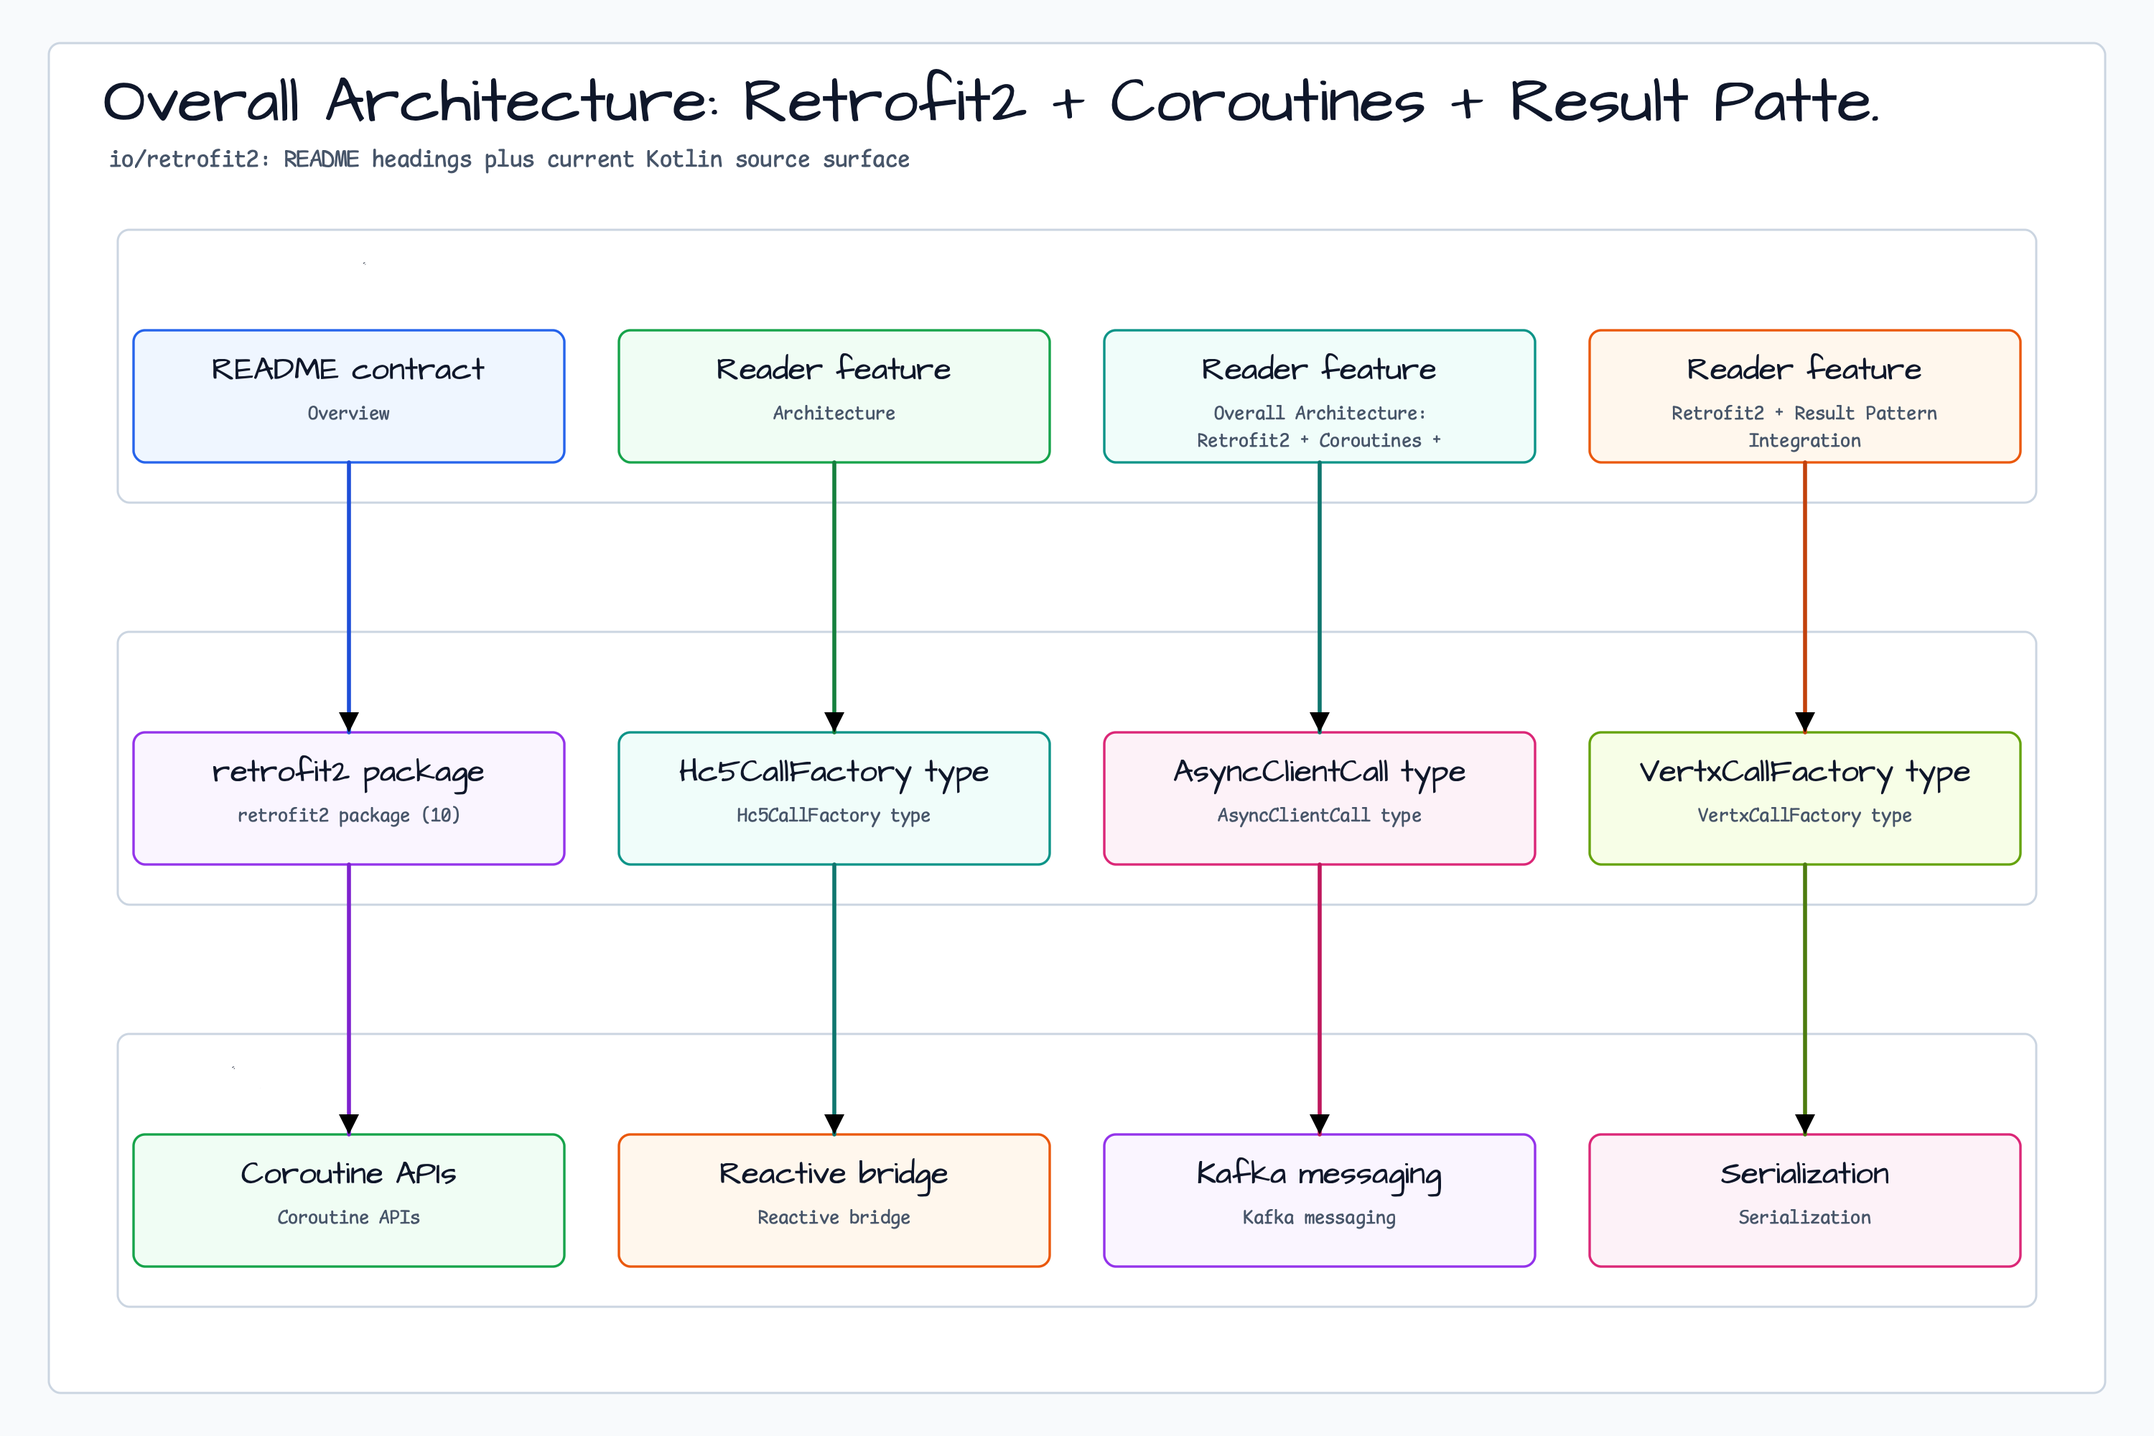
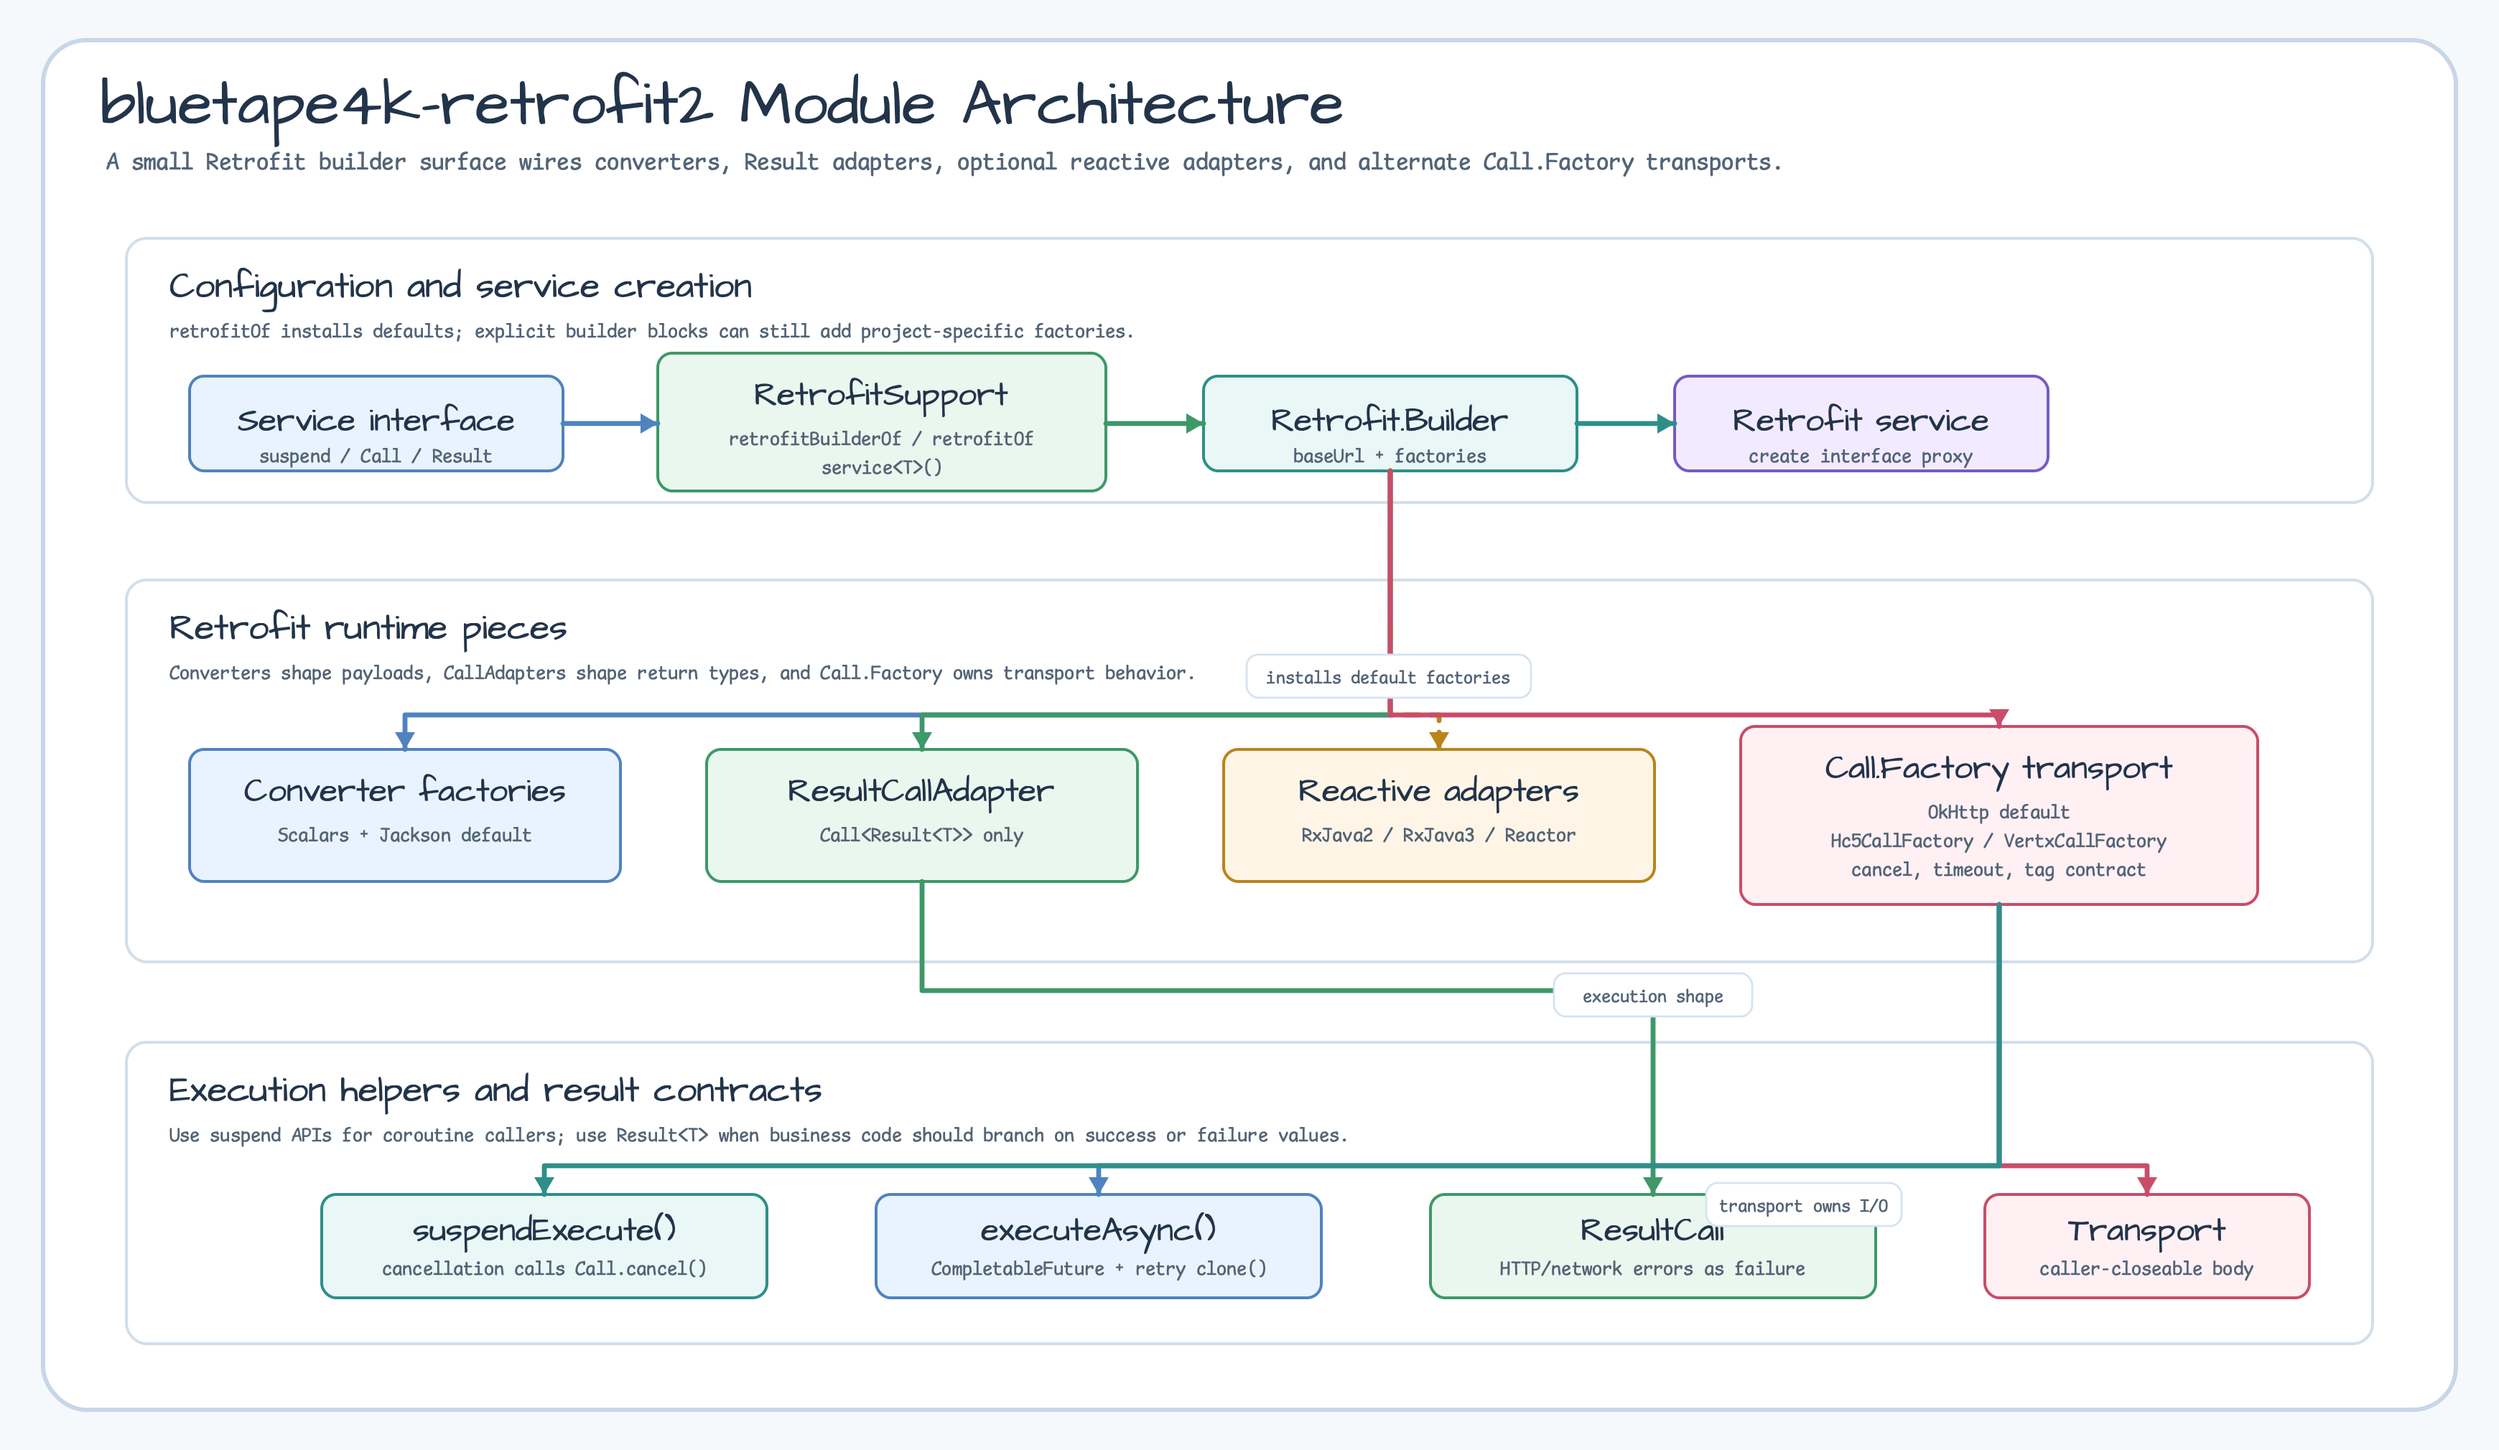
docs: redraw retrofit2 diagrams from source
The retrofit2 README diagrams should explain the actual builder defaults, Result adapter boundary, coroutine execution helpers, and alternate Call.Factory transports instead of generic README-feature placeholders.

Constraint: Current source wires ResultCallAdapterFactory by default, conditionally adds reactive adapters, maps Call<Result<T>> through ResultCall, and propagates cancellation through HC5, Vert.x, and coroutine helper paths.

Rejected: Keeping the previous generated diagrams | They contained placeholder README contract/Reader feature cards, truncated titles, small stroke-width markers, and unrelated module concepts.

Confidence: high

Scope-risk: narrow

Directive: Keep retrofit2 diagrams tied to RetrofitSupport.kt, ResultCall*.kt, and transport CallFactory contracts; reduce crossings by moving cards before changing source-backed relationships.

Tested: CairoSVG rendered io-retrofit2 diagram 01-02 and sequence 01; visually inspected all three PNGs for text fit, line overlap, arrow readability, and margins; SVG XML, forbidden wording, markerUnits, alt opacity, and README image links passed; git diff --check passed.

Not-tested: Gradle build not run because this is README/image-only documentation work.

diff --git a/io/retrofit2/README.md b/io/retrofit2/README.md
@@ -11,17 +11,17 @@ Beyond the default OkHttp transport, it supports multiple HTTP backends includin
 
 ## Architecture
 
-### Overall Architecture: Retrofit2 + Coroutines + Result Pattern
+### Retrofit2 Module Architecture
 
-![Overall Architecture: Retrofit2 + Coroutines + Result Patte. diagram](../../docs/images/readme-diagrams/io-retrofit2-diagram-01.png)
+![Retrofit2 Module Architecture diagram](../../docs/images/readme-diagrams/io-retrofit2-diagram-01.png)
 
 ### Retrofit2 + Result Pattern Integration
 
 ![Retrofit2 + Result Pattern Integration diagram](../../docs/images/readme-diagrams/io-retrofit2-diagram-02.png)
 
-### Suspend Function HTTP Request Flow (Result Pattern)
+### Suspend Result HTTP Request Flow
 
-![Suspend Function HTTP Request Flow (Result Pattern) diagram](../../docs/images/readme-diagrams/io-retrofit2-sequence-01.png)
+![Suspend Result HTTP Request Flow diagram](../../docs/images/readme-diagrams/io-retrofit2-sequence-01.png)
 
 ## Key Features
 
